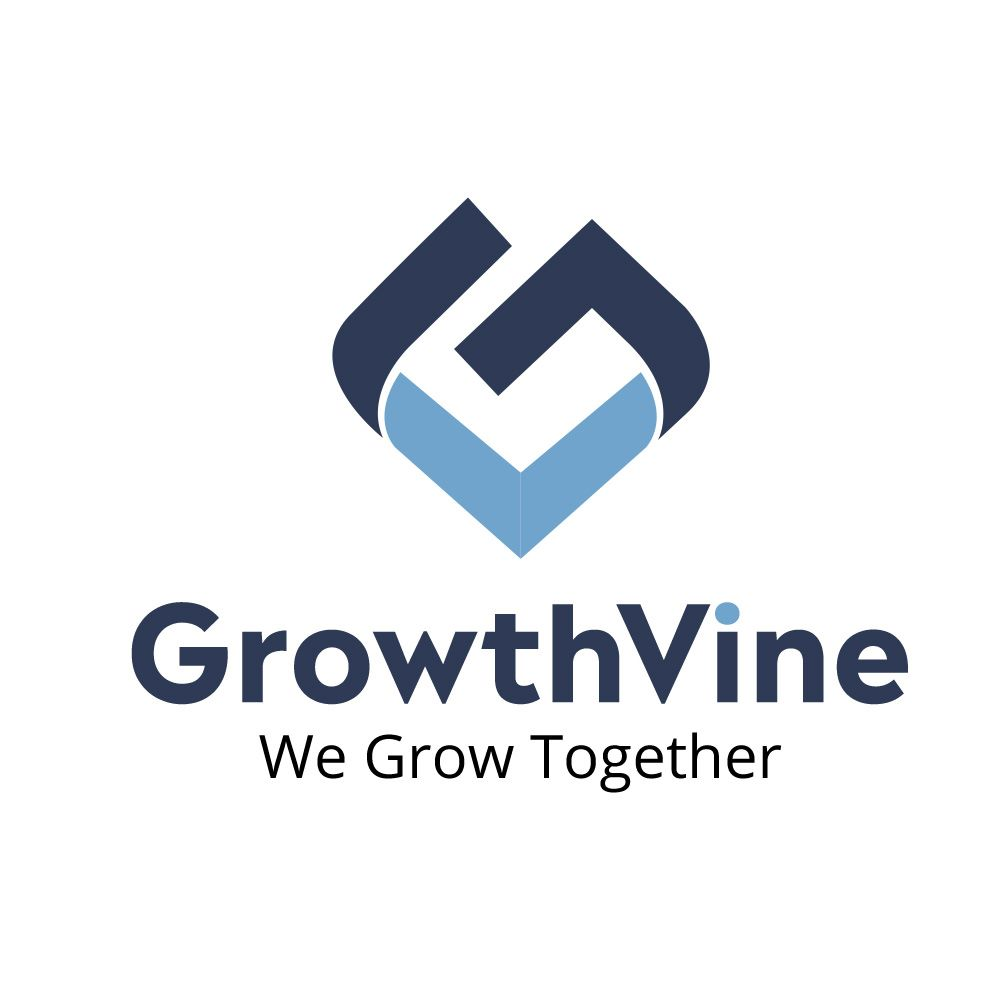
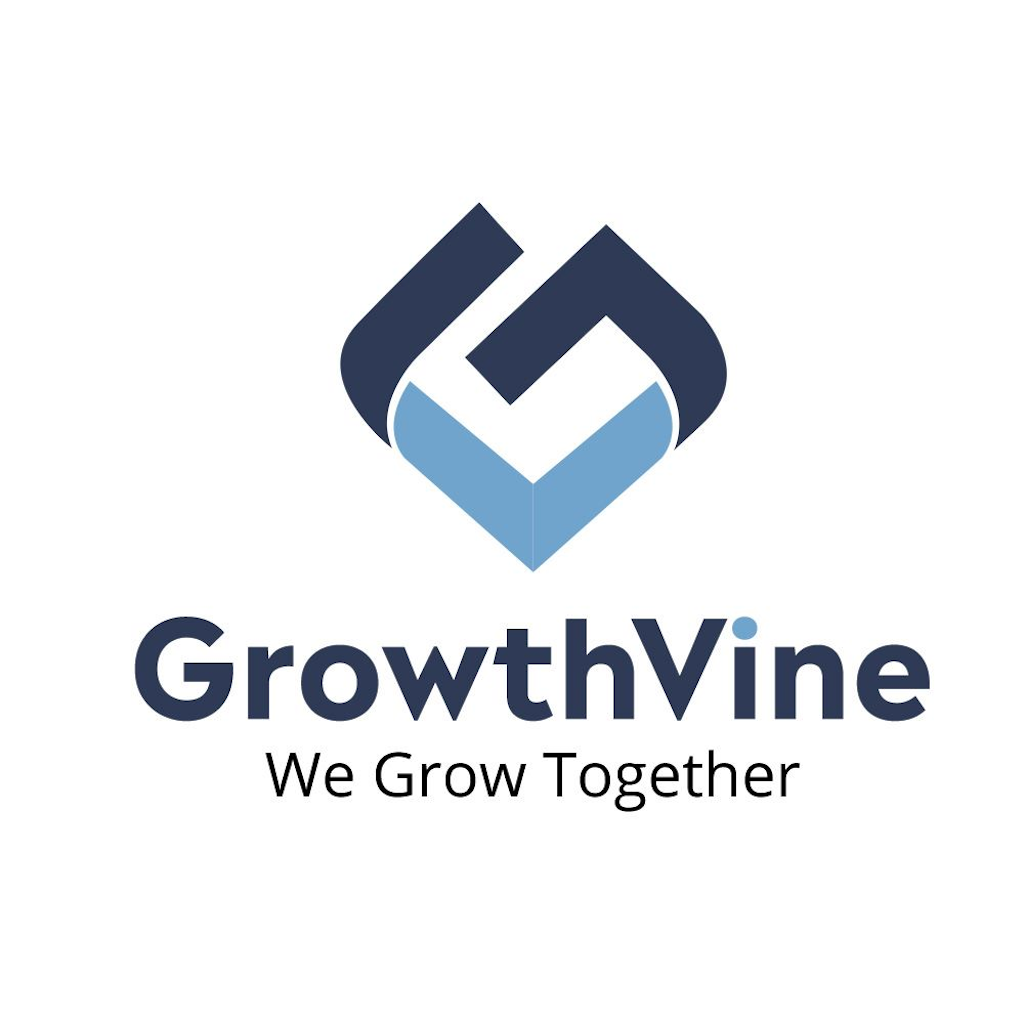
all okay

diff --git a/src/screens/Signup/Signupwithphone.js b/src/screens/Signup/Signupwithphone.js
@@ -114,7 +114,7 @@ const styles = StyleSheet.create({
     left: "50%",
     width: width * 0.9,
     marginLeft: -width * 0.45,
-    marginTop: height * 0.05,
+    marginTop: height * 0.1,
   },
   signupText: {
     marginBottom: height * 0.04,

diff --git a/src/screens/Signup/Signup.js b/src/screens/Signup/Signup.js
@@ -131,7 +131,7 @@ const styles = StyleSheet.create({
   },
   imagecontainer: {
     width: width,
-    marginTop: height * 0.05,
+    marginTop: height * 0.1,
   },
   image: {
     width: width,
